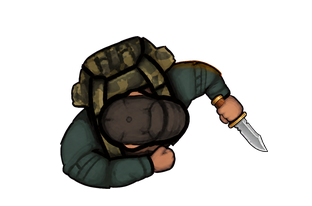
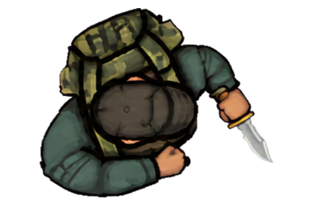
Update assets

diff --git a/shooter/entities/player.py b/shooter/entities/player.py
@@ -4,11 +4,14 @@ from shooter.assets import load_animation
 
 from shooter import config
 
+KNIFE_ATTACK_FPS = 12
+IDLE_ANIMATION_FPS = 30
+
 ANIMATIONS = {
     "knife": {
         "IDLE": ("Player Animations/Idle Knife", "survivor-idle_knife_", 20),
         "MOVE": ("Player Animations/Move Knife", "survivor-move_knife_", 20),
-        "SHOOT": ("Player Animations/Attack Knife", "survivor-attack_knife_", 3),
+        "SHOOT": ("Player Animations/Attack Knife", "survivor-attack_knife_", 5),
     },
     **{
         weapon: {
@@ -40,12 +43,15 @@ class Human(pygame.sprite.Sprite):
         self.current_idle = 0
         self.current_move = 0
         self.current_shoot = 0
+        self.attack_frames_remaining = 0
         self.health = config.PLAYER_HEALTH
         self.animation_clock = 0.0
         self.frame = 0
         self.animation_sets = {
             weapon: {
-                name: load_animation(directory, prefix, count, config.PLAYER_SCALE, True)
+                name: load_animation(
+                    directory, prefix, count, config.PLAYER_SCALE, True
+                )
                 for name, (directory, prefix, count) in animations.items()
             }
             for weapon, animations in ANIMATIONS.items()
@@ -72,8 +78,21 @@ class Human(pygame.sprite.Sprite):
         if weapon_id is not None and weapon_id != self.weapon_id:
             self.weapon_id = weapon_id
             self.frames = self.animation_sets[weapon_id]
-        self.type = type
-        self.animation_clock += dt * config.ANIMATION_FPS
+            self.attack_frames_remaining = 0
+        if type == "SHOOT" and self.attack_frames_remaining == 0:
+            self.current_shoot = 0
+            self.frame = 0
+            self.animation_clock = 0.0
+            self.attack_frames_remaining = len(self.frames["SHOOT"]) - 1
+        self.type = "SHOOT" if self.attack_frames_remaining else type
+        animation_fps = (
+            KNIFE_ATTACK_FPS
+            if self.type == "SHOOT" and self.weapon_id == "knife"
+            else IDLE_ANIMATION_FPS
+            if self.type == "IDLE"
+            else config.ANIMATION_FPS
+        )
+        self.animation_clock += dt * animation_fps
         steps, self.animation_clock = divmod(self.animation_clock, 1)
         for _ in range(int(steps)):
             self._advance()
@@ -96,10 +115,10 @@ class Human(pygame.sprite.Sprite):
                 self.current_move = 0
             frame = self.current_move
         elif type == "SHOOT":
-            if self.current_shoot < 2:
-                self.current_shoot += 1
-            else:
-                self.current_shoot = 0
+            self.current_shoot = min(
+                self.current_shoot + 1, len(self.frames["SHOOT"]) - 1
+            )
+            self.attack_frames_remaining = max(0, self.attack_frames_remaining - 1)
             frame = self.current_shoot
 
         self.frame = frame

diff --git a/tests/test_entities.py b/tests/test_entities.py
@@ -2,7 +2,7 @@ import pytest
 
 from shooter import config
 
-from shooter.entities.player import Human
+from shooter.entities.player import IDLE_ANIMATION_FPS, KNIFE_ATTACK_FPS, Human
 from shooter.entities.zombie import Zombie
 
 
@@ -106,11 +106,45 @@ def test_player_animation_advances_through_its_frames(human):
 
 
 def test_idle_animation_advances(human):
-    human.update_anim("IDLE")
+    human.update_anim("IDLE", dt=1 / IDLE_ANIMATION_FPS)
     first = human.image
-    human.update_anim("IDLE")
+    human.update_anim("IDLE", dt=1 / IDLE_ANIMATION_FPS)
 
     assert human.image is not first
+
+
+def test_idle_animation_waits_for_its_frame_interval(human):
+    first = human.image
+
+    human.update_anim("IDLE", dt=(1 / IDLE_ANIMATION_FPS) - 0.001)
+
+    assert human.image is first
+
+
+def test_knife_attack_lunges_out_and_returns_before_idle(human):
+    attack = human.frames["SHOOT"]
+    frame_time = 1 / KNIFE_ATTACK_FPS
+
+    seen = []
+    human.update_anim("SHOOT", dt=0)
+    seen.append(human.image)
+    for _ in range(len(attack) - 1):
+        human.update_anim("IDLE", dt=frame_time)
+        seen.append(human.image)
+
+    assert seen == list(attack)
+    human.update_anim("IDLE")
+    assert human.type == "IDLE"
+
+
+def test_knife_attack_does_not_disappear_on_the_next_simulation_tick(human):
+    human.update_anim("SHOOT", dt=config.SIM_DT)
+    first = human.image
+
+    human.update_anim("IDLE", dt=config.SIM_DT)
+
+    assert human.type == "SHOOT"
+    assert human.image is first
 
 
 @pytest.mark.parametrize("weapon_id", ("knife", "m16", "smg", "shotgun", "sniper"))
@@ -137,6 +171,18 @@ def test_zombie_hitbox_stays_stable_between_different_sized_poses(zombie):
 
     zombie.update_anim("ATTACK")
     assert zombie.rect.size == moving
+
+
+def test_zombie_body_does_not_swell_when_attacking(zombie):
+    """Attack art comes from a larger rig and needs its own source correction."""
+    tallest_walk_pose = max(
+        frame.get_bounding_rect().height for frame in zombie.frames["MOVE"]
+    )
+    tallest_attack_pose = max(
+        frame.get_bounding_rect().height for frame in zombie.frames["ATTACK"]
+    )
+
+    assert tallest_attack_pose <= tallest_walk_pose
 
 
 def test_changing_pose_does_not_teleport_the_zombie(zombie):

diff --git a/shooter/entities/zombie.py b/shooter/entities/zombie.py
@@ -16,6 +16,16 @@ ANIMATIONS = {
     "ATTACK": ("Zombie Animations/zombie_attack", "skeleton-attack_", 9),
 }
 
+# The attack drawings use a larger source rig than the idle and articulated
+# walk drawings. Applying the global scale directly makes the zombie's body
+# swell by roughly a third as soon as it reaches the player. Normalize that
+# source rig while retaining the naturally wider reaching-arm poses.
+ANIMATION_SCALE = {
+    "IDLE": 1.0,
+    "MOVE": 1.0,
+    "ATTACK": 0.74,
+}
+
 
 # A crowd all moving at exactly one speed reads as a single object. Each
 # zombie gets its own pace, so a wave arrives strung out rather than in rank.
@@ -26,6 +36,10 @@ PACE_SPREAD = 0.18
 # sprite without turning the crowd into a pinball table.
 PERSONAL_SPACE = 76
 SHOVE = 1.8
+# Several neighbours can push on the same zombie at once. Cap their combined
+# effect below its chase speed so crowd pressure makes it sidestep without
+# knocking it backwards and producing a pinball-like rebound.
+MAX_SHOVE_SPEED = 0.45
 
 
 def keep_apart(zombies, camera, dt=config.SIM_DT):
@@ -66,6 +80,12 @@ def keep_apart(zombies, camera, dt=config.SIM_DT):
 
     for zombie, (push_x, push_y) in zip(crowd, pushes, strict=True):
         if push_x or push_y:
+            push_length = math.hypot(push_x, push_y)
+            max_push = zombie.zombie_speed * MAX_SHOVE_SPEED * dt
+            if push_length > max_push:
+                scale = max_push / push_length
+                push_x *= scale
+                push_y *= scale
             zombie.zombie_x += push_x
             zombie.zombie_y += push_y
             zombie.move_position(*camera)
@@ -108,7 +128,13 @@ class Zombie(Interpolated, pygame.sprite.Sprite):
         self.killed = False
         self.window_size = window_size
         self.frames = {
-            name: load_animation(directory, prefix, count, config.ZOMBIE_SCALE, True)
+            name: load_animation(
+                directory,
+                prefix,
+                count,
+                config.ZOMBIE_SCALE * ANIMATION_SCALE[name],
+                True,
+            )
             for name, (directory, prefix, count) in ANIMATIONS.items()
         }
         self.upright = self.frames["IDLE"][0]

diff --git a/tests/test_zombie_movement.py b/tests/test_zombie_movement.py
@@ -13,6 +13,7 @@ import pytest
 
 from shooter import config
 from shooter.entities.zombie import (
+    MAX_SHOVE_SPEED,
     PERSONAL_SPACE,
     SHOVE,
     Zombie,
@@ -118,6 +119,43 @@ def test_zombies_far_apart_are_left_alone(display, cash):
     keep_apart(group, (0, 0), config.SIM_DT)
 
     assert {z.get_position() for z in group} == set(positions)
+
+
+def test_a_crowd_cannot_shove_a_zombie_faster_than_it_walks(display, cash):
+    """Neighbour forces add together in a pack. Left uncapped, the zombie in
+    the middle gets fired out of the group and appears to bounce off it."""
+    group = pygame.sprite.Group()
+    middle = Zombie(WINDOW, cash)
+    middle.set_position(1000, 1000)
+    group.add(middle)
+    for at in ((999, 1000), (1000, 999), (1001, 999), (1001, 1001)):
+        zombie = Zombie(WINDOW, cash)
+        zombie.set_position(*at)
+        group.add(zombie)
+
+    before = middle.get_position()
+    keep_apart(group, (0, 0), config.SIM_DT)
+
+    shove_speed = math.dist(before, middle.get_position()) / config.SIM_DT
+    assert shove_speed <= middle.zombie_speed * MAX_SHOVE_SPEED + 1e-6
+
+
+def test_crowding_does_not_knock_a_walking_zombie_backwards(display, cash):
+    group = pygame.sprite.Group()
+    walker = Zombie(WINDOW, cash)
+    walker.set_position(200, WINDOW[1] / 2 - walker.rect.height / 2)
+    walker.move_position(0, 0)
+    group.add(walker)
+    for x in (201, 202, 203):
+        neighbour = Zombie(WINDOW, cash)
+        neighbour.set_position(x, walker.zombie_y)
+        group.add(neighbour)
+
+    before = walker.zombie_x
+    walker.move_toward_center(0, 0, config.SIM_DT)
+    keep_apart(group, (0, 0), config.SIM_DT)
+
+    assert walker.zombie_x > before
 
 
 def test_pushing_apart_does_not_depend_on_iteration_order(display, cash):

diff --git a/shooter/systems/world.py b/shooter/systems/world.py
@@ -12,7 +12,6 @@ from dataclasses import dataclass
 
 from shooter import items
 from shooter.assets import load_image, load_scaled
-from shooter.entities import shapes
 from shooter.entities.pickups import Pickup
 from shooter.entities.props import Harvestable, Prop, Yield
 
@@ -31,6 +30,7 @@ ROCK_DAMAGE_SPRITES = (
 )
 WOOD_PICKUP_SPRITE = "Pickups/log.png"
 ROCK_PICKUP_SPRITE = "Pickups/rock.png"
+CLOTH_PICKUP_SPRITE = "Pickups/cloth.png"
 
 WOOD = items.register(items.Item("wood", "Wood", items.RESOURCE, stack=25))
 METAL = items.register(items.Item("metal", "Metal", items.RESOURCE, stack=25))
@@ -42,7 +42,7 @@ CLOTH = items.register(items.Item("cloth", "Cloth", items.RESOURCE, stack=25))
 LOOKS = {
     WOOD.id: lambda: load_image(WOOD_PICKUP_SPRITE, True),
     METAL.id: lambda: load_image(ROCK_PICKUP_SPRITE, True),
-    CLOTH.id: shapes.cloth,
+    CLOTH.id: lambda: load_image(CLOTH_PICKUP_SPRITE, True),
 }
 
 # Health is how much is left in a thing; these are what a whole one is worth.

diff --git a/shooter/preload.py b/shooter/preload.py
@@ -38,6 +38,7 @@ SPRITES = (
     ("Props/rock_ruined.png", True),
     ("Pickups/log.png", True),
     ("Pickups/rock.png", True),
+    ("Pickups/cloth.png", True),
     ("Power Ups/instakill.png", False),
     ("Power Ups/Nuke.png", False),
     ("Power Ups/MaxAmmo.png", False),
@@ -73,7 +74,13 @@ def preload():
         for directory, prefix, count in animations.values():
             load_animation(directory, prefix, count, config.PLAYER_SCALE, True)
 
-    for directory, prefix, count in zombie.ANIMATIONS.values():
-        load_animation(directory, prefix, count, config.ZOMBIE_SCALE, True)
+    for name, (directory, prefix, count) in zombie.ANIMATIONS.items():
+        load_animation(
+            directory,
+            prefix,
+            count,
+            config.ZOMBIE_SCALE * zombie.ANIMATION_SCALE[name],
+            True,
+        )
 
     load_sized(ZOMBIE_STILL, *config.ZOMBIE_SIZE, True)

diff --git a/shooter/ui/hud.py b/shooter/ui/hud.py
@@ -172,6 +172,8 @@ THROWABLE_SIZE = (86, 78)
 THROWABLE_GAP = 7
 ACTIVE_DIAMETER = 148
 AMMO_SIZE = (177, 76)
+AMMO_ICON_SPRITE = "HUD/icons/bullet.png"
+AMMO_ICON_SIZE = (34, 40)
 
 
 def _outlined_text(message, size, colour=config.WHITE):
@@ -268,8 +270,12 @@ class WeaponPanel:
         loaded = 0 if held.loaded is None else held.loaded
         reserve = 0 if held.reserve is None else held.reserve
         _hud_box(screen, ammo, 16)
-        bullet = _outlined_text("\u2022", 58, (224, 181, 70))
-        screen.blit(bullet, bullet.get_rect(center=(ammo.left + 25, ammo.centery - 2)))
+        _icon(
+            screen,
+            AMMO_ICON_SPRITE,
+            AMMO_ICON_SIZE,
+            (ammo.left + 25, ammo.centery - 2),
+        )
         screen.blit(
             pygame.font.Font(None, 55).render(str(loaded), True, config.WHITE),
             inside(BOTTOM_RIGHT.rect(self.window), CLIP_READOUT),

diff --git a/tests/test_session.py b/tests/test_session.py
@@ -99,6 +99,26 @@ def test_walking_moves_the_camera(session):
     assert session.camera_x < 0
 
 
+def test_walking_away_breaks_a_zombie_attack(session):
+    zombie = next(iter(session.zombies))
+    zombie.set_position(*session.human.rect.topleft)
+    zombie.move_position(*session.camera)
+    session.human.health = 50
+
+    session.step(pressed_nothing(), config.SIM_DT)
+    assert zombie.type == "ATTACK"
+
+    pressed = pressed_nothing()
+    pressed[pygame.K_d] = True
+    for _ in range(30):
+        session.step(pressed, config.SIM_DT)
+
+    health_after_escape = session.human.health
+    assert zombie.type == "MOVE"
+    session.step(pressed, config.SIM_DT)
+    assert session.human.health >= health_after_escape
+
+
 def test_walking_into_the_world_edge_does_nothing(session):
     pressed = pressed_nothing()
     pressed[pygame.K_a] = True

diff --git a/shooter/session.py b/shooter/session.py
@@ -481,6 +481,12 @@ class Session:
 
     def _advance_zombies(self, dt):
         for zombie in self.zombies:
+            # The player moves through the world by moving the camera. Keep the
+            # zombie's screen-space collision box in step with that camera
+            # before deciding whether it is still touching the player. An
+            # attacking zombie does not call move_toward_center(), so without
+            # this sync its old box can remain on the player indefinitely.
+            zombie.move_position(self.camera_x, self.camera_y)
             attacking = is_zombie_attacking(self.human, zombie, dt)
             if attacking:
                 zombie.face_player()
